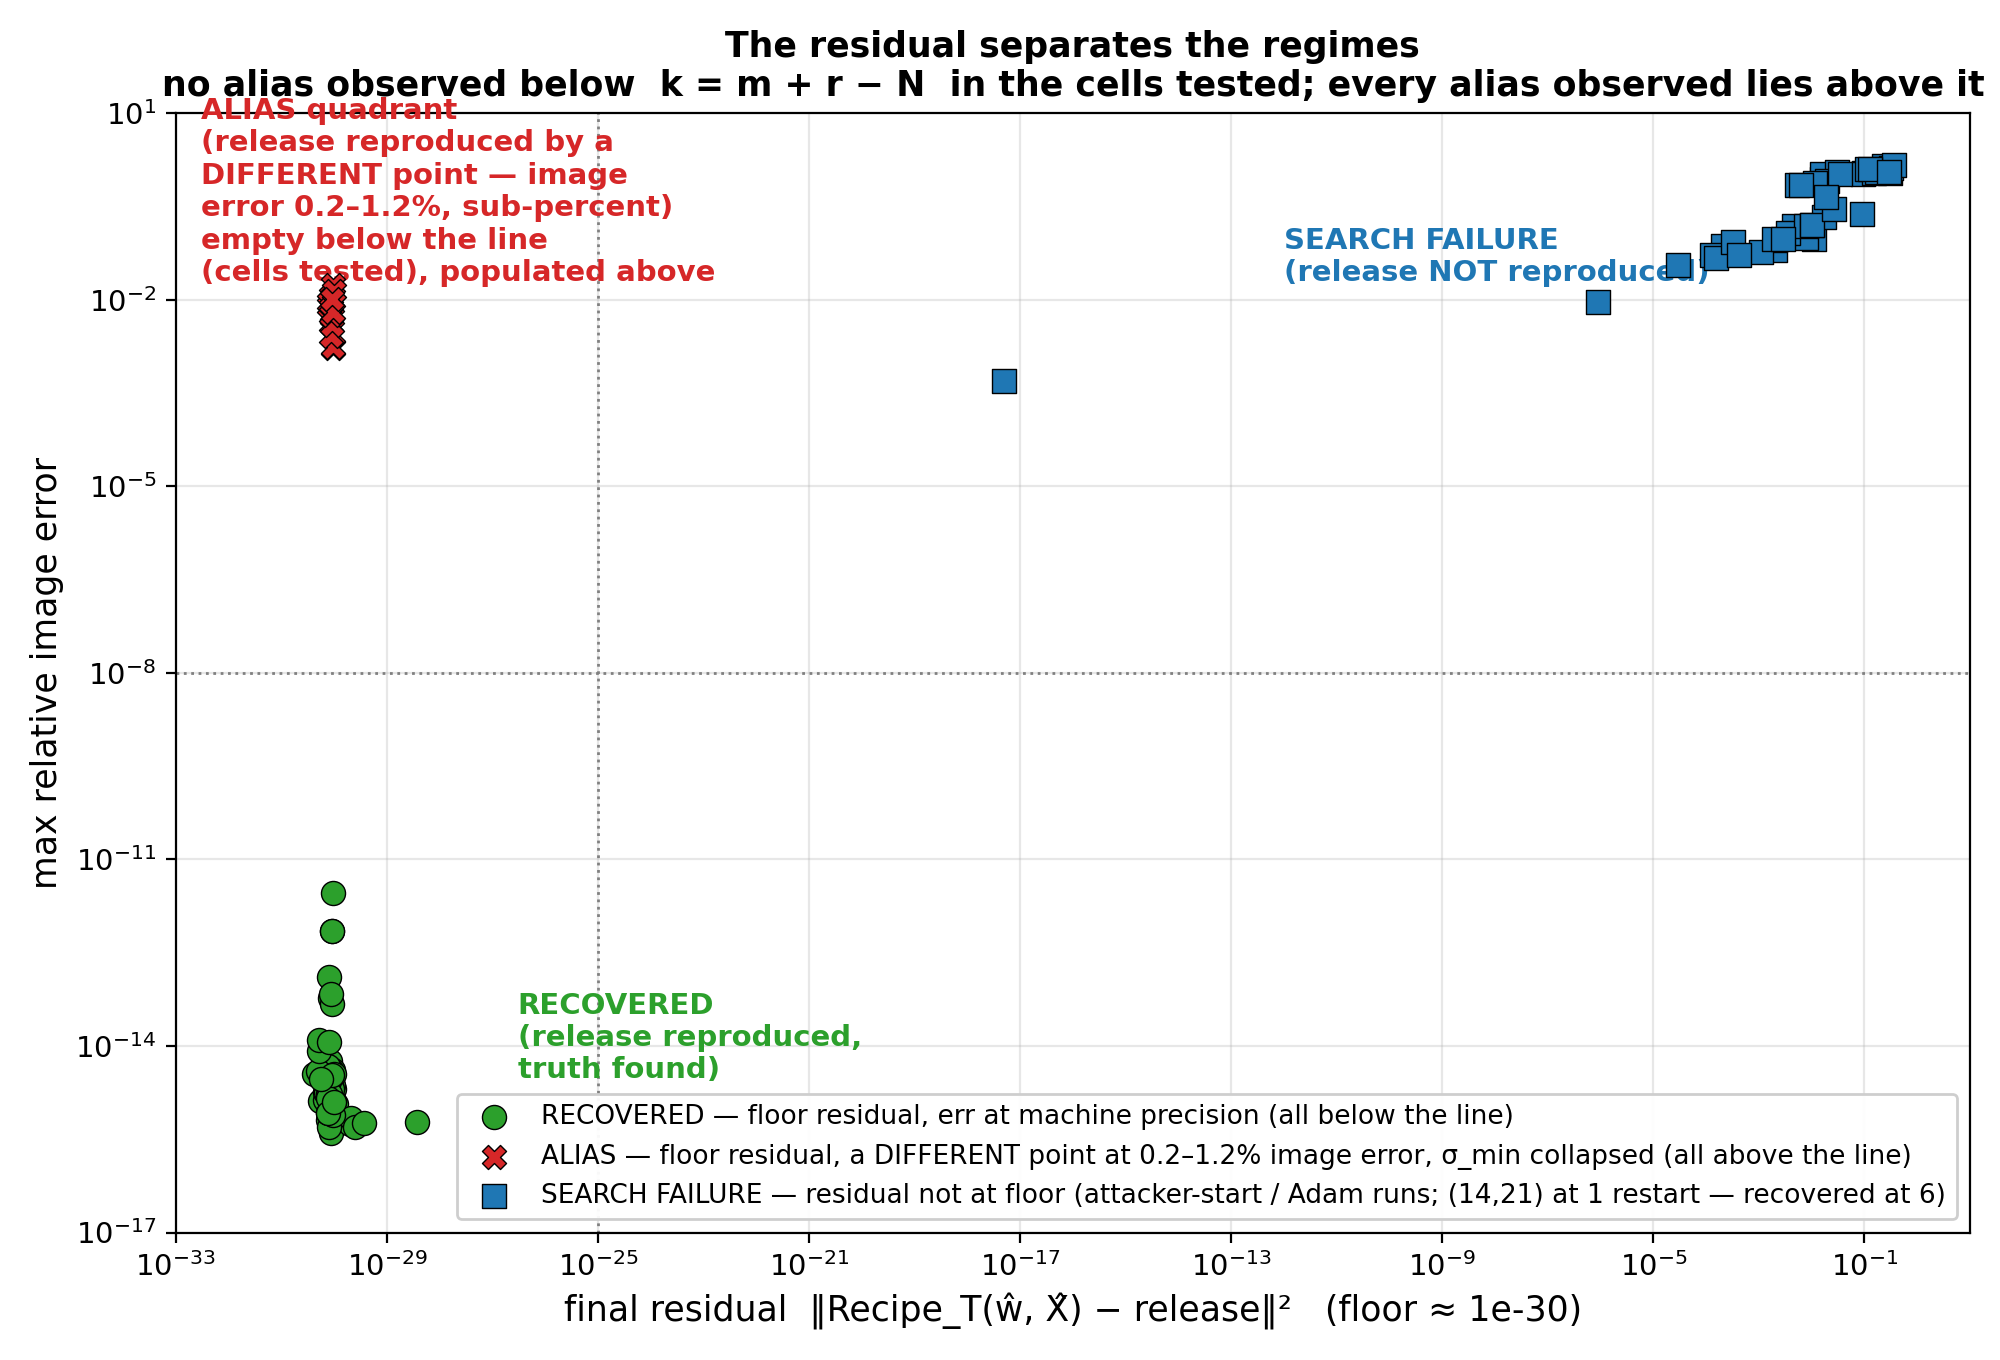
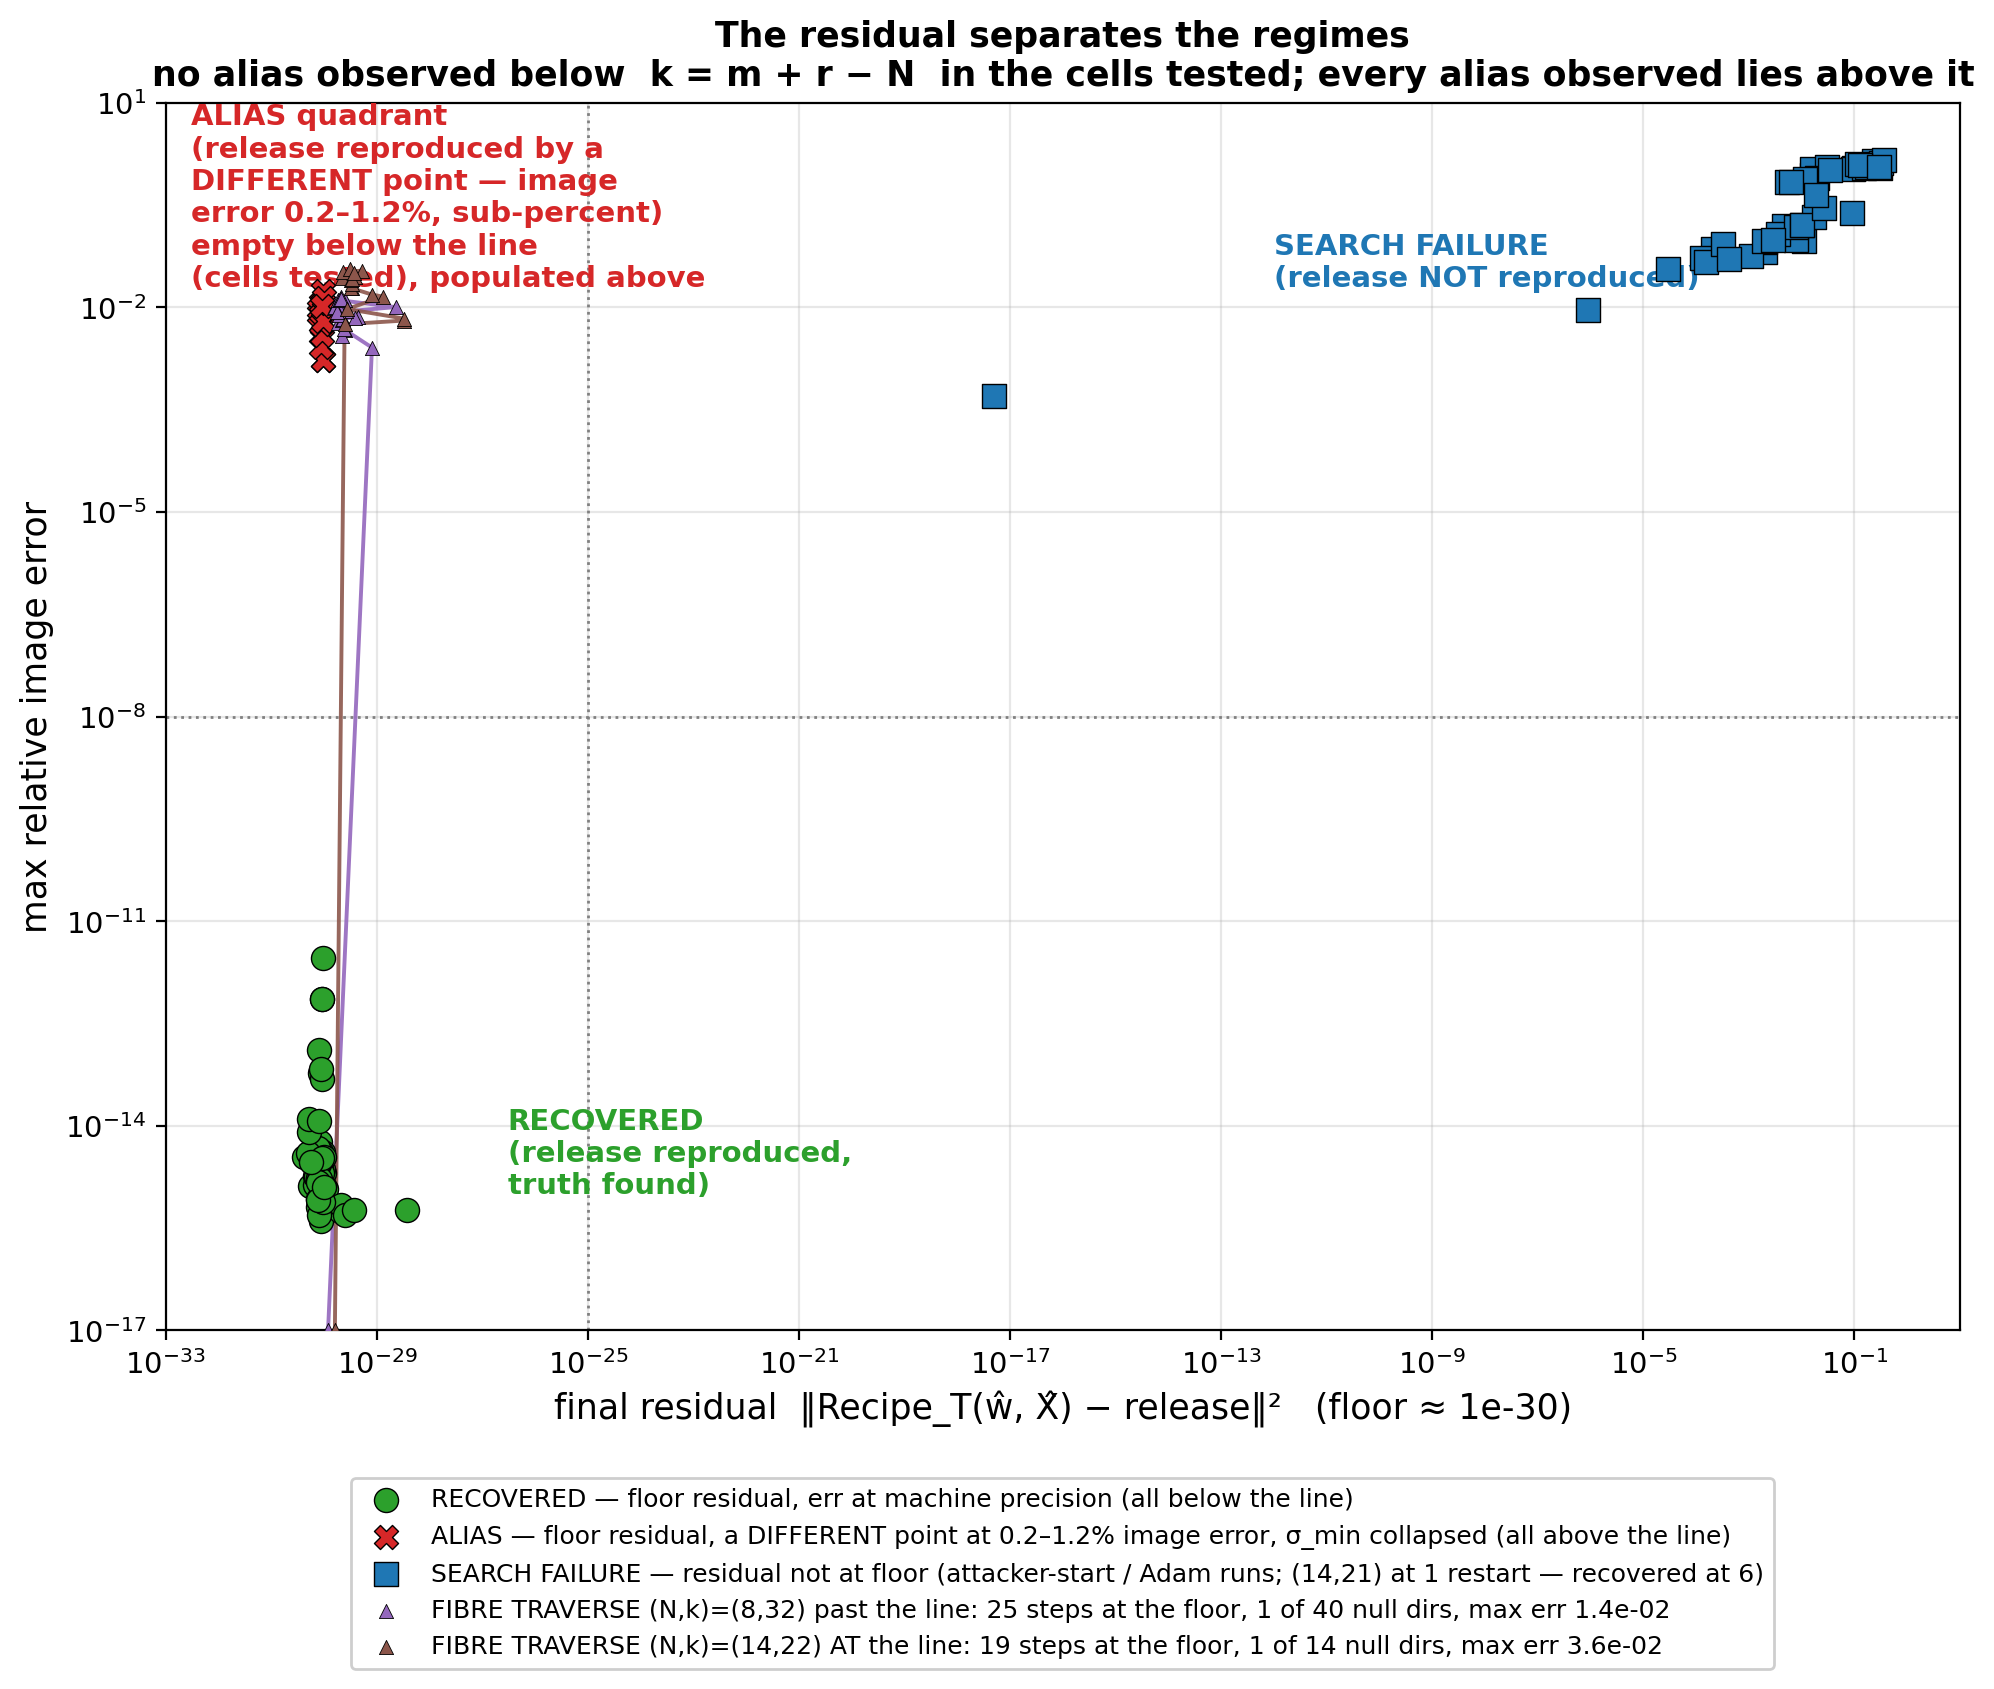
Rev 10 delta: fibre traverse (job 482338) drawn on the alias quadrant; plateau un-generalised; hedge on exact-vs-recognisable
The continuation along the sigma_min null direction stays at the residual floor at every step and moves the
image error up through the alias band: (8,32) past the line 25/25 steps, max 1.43e-2, pausing in the 1.0-1.4%
band; (14,22) at the line 16 steps so far, 3.5e-2 and still rising. The pause is a property of one path, not
of the fibre; both are one null direction of 40 / 14, hence lower bounds on the extent. Text now says: on the
paths measured the alternative solutions are still recognisable reconstructions; whether the fibre reaches
unrecognisable points is not established. The below-line control (8,26) is the paragraph's stated kill
condition and is marked pending in the rendered text. Figure 2 plots on_fibre rows as a line (and any
obstructed rows automatically, for the control). Numbers typed from the on-disk jsonl; finalised at job end.

diff --git a/notes/exact_channel_rev10.tex b/notes/exact_channel_rev10.tex
@@ -274,18 +274,20 @@ ever be measured directly:
   \textnormal{[VERIFIED†, extent pending]} (job 482338; $N=8$, $k=32$, $40$
   numerically null directions): stepping along the $\sigma_{\min}$ singular
   direction and retracting onto the fibre by a few LM steps keeps the residual
-  at $\sim\!10^{-30}$ at every one of $25$ continuation steps, while the image
-  error rises over the first $\sim\!20$ steps (locally non-monotone) and then
-  flattens in the $1.0$--$1.4\times10^{-2}$ band; maximum image error at the
-  floor $1.43\times10^{-2}$, past the study's own $10^{-2}$ recovery tolerance,
-  with the release reproduced exactly throughout. At the line itself
-  ($N=14$, $k=22$, $14$ null directions) the first five steps reach
-  $9.4\times10^{-3}$. \emph{The caveat belongs next to the number:} this walks
-  one direction out of forty — the continuation follows the least-constrained
-  singular direction, re-aiming as the fibre curves, but it is a single path
-  through a $40$-dimensional set — so $1.43\times10^{-2}$ bounds the fibre's
-  extent from \emph{below} and ``flattens'' describes this path, not the
-  fibre. (Quote the maximum image error at the floor, not a distance along the
+  at $\sim\!10^{-30}$ at every one of $25$ continuation steps; the image error
+  rises (locally non-monotone) to a maximum of $1.43\times10^{-2}$ at the
+  floor — past the study's own $10^{-2}$ recovery tolerance — and sits in the
+  $1.0$--$1.4\times10^{-2}$ band over the last five steps of that path. At the
+  line itself ($N=14$, $k=22$, $14$ null directions) sixteen steps reach
+  $3.5\times10^{-2}$ and are \emph{still rising} as this is written (job
+  482338 running; final extent to follow). In
+  neither cell is the extent bounded by the run. \emph{The caveat belongs next
+  to the numbers:} each walks one null direction out of forty (resp.\
+  fourteen) — the continuation follows the least-constrained singular
+  direction, re-aiming as the fibre curves, but it is a single path through
+  the set — so these bound the fibres' extent from \emph{below}; the pause of
+  the $k=32$ path in the $1.0$--$1.4\%$ band is a property of that path, not
+  of the fibre, and the at-line path shows none. (Quote the maximum image error at the floor, not a distance along the
   path: arc length lives in the joint $(w,X)$ space, where the $rN$ nuisance
   coordinates advance it without moving the image.) The below-the-line control
   ($N=8$, $k=26$), where the traversal must be \emph{obstructed}, is
@@ -412,13 +414,16 @@ tolerance, and a $0.3\%$ relative error is a visually identical image. So the
 capacity law is a boundary of \emph{exact identifiability} and, on this
 evidence, \emph{not a boundary of leakage}: past it the attack still returns
 every image to sub-percent accuracy. The fibre is, however, traversable: the
-continuation of \S\ref{sec:counting} moves the image along it to a $1.4\%$
-error and then flattens, with the residual at the floor throughout — along
-one of forty null directions, so this bounds the extent from below. The
-capacity boundary therefore marks where \emph{exact} recovery stops, not
-where recognisable recovery stops; whether some other direction through the
-fibre goes further is the open question that decides whether the line has
-any privacy meaning at all. The $49$-cell grid
+continuation of \S\ref{sec:counting} moves the image along it to $1.4\%$
+(past the line) and $3.5\%$ (at the line) error with the residual at the
+floor throughout, along one null direction of forty and of fourteen
+respectively, in neither case bounded by the run. On the paths measured the
+alternative solutions are still recognisable reconstructions; whether the
+fibre reaches unrecognisable points is not established, and one cell is still
+rising at the end of its run. The capacity boundary marks where \emph{exact}
+recovery stops; whether it marks anything about recognisable recovery is the
+open question that decides whether the line has any privacy meaning at all.
+The $49$-cell grid
 $N,k\in\{2,\dots,14\}$ (jobs 396214--21, 456630) lies entirely inside the
 capacity region and recovers in every cell, crossing the quotient line
 $k=r-N$ throughout (Figure~\ref{fig:plane}).
@@ -445,7 +450,11 @@ the attacker-start and Adam arms, and the single-restart run of the $(14,21)$
 cell, which recovers at six restarts (job 481079: residual $9.5\times10^{-31}$,
 error $2.8\times10^{-12}$). No alias was observed below the line in the cells
 tested — the below-line region is sampled at a handful of $k$ per $N$ — and
-the region between the clusters is empty: the residual is a regime detector.}\label{fig:quadrant}
+the region between the clusters is empty: the residual is a regime detector.
+The triangles are the fibre traverse of \S\ref{sec:counting} (job 482338):
+continuation at the floor from the truth up through the alias band — the
+release-consistent set drawn as a line, past the line and at it, one null
+direction each, extent bounded from below only.}\label{fig:quadrant}
 \end{figure}
 
 %----------------------------------------------------------------------------
@@ -583,10 +592,12 @@ open item — all four are mathematics.
   reproduced at the floor by a point that is not the truth. Say in the same
   breath what that point is: within $0.2$--$1.2\%$ of the true images where
   the solver lands, and a continuation along the release-consistent set
-  reaches $1.4\%$ and flattens — along one direction of forty, so a lower
-  bound on the extent. Non-isolation is established; every point on the
-  walked path is a sub-$1.5\%$ reconstruction; the line marks where exact
-  recovery stops, not where recognisable recovery stops. This is a boundary
+  reaches $1.4$--$3.5\%$ along a single null direction — a lower bound on the
+  extent, one cell still rising. Non-isolation is established; on the paths
+  measured the alternative solutions are still recognisable reconstructions;
+  whether the fibre reaches unrecognisable points is not established. The
+  line marks where exact recovery stops — that much is a theorem — and what
+  it means for recognisable recovery is open. This is a boundary
   of exact identifiability and, on this evidence, not a boundary of leakage —
   the more interesting statement, and the honest one.
   ``$r-N$'' bounds the quotient, not the leakage.

diff --git a/scripts/rev10_figs/fig_alias_quadrant.py b/scripts/rev10_figs/fig_alias_quadrant.py
@@ -23,12 +23,18 @@ def cls(r):
 pts=[]
 for r in grid+cap: pts.append((r.get("residual",9),r.get("final_err_max",9),side(r),cls(r)))
 for r in inits+adam: pts.append((r.get("residual",9),r.get("final_err_max",9),side(r),"search"))
+# fibre traverse (job 482338): continuation along the sigma_min direction with LM retraction; every on-fibre row is a
+# release-consistent point (floor residual) at a growing image error -> draws the fibre as a LINE into the alias band.
+trav = load("results/exact_inversion/step24_null_*.jsonl")
+trav_cells = {}
+for r in trav:
+    trav_cells.setdefault((r["N"], r["k"], r["line"]), []).append(r)
 # verification of the claim the figure makes
 assert all(sd=="above" for x,y,sd,c in pts if c=="alias"), "an alias below the line would falsify the figure"
 assert all(sd=="below" for x,y,sd,c in pts if c=="recovered"), "recovered above the line?"
 print("check: all aliases above the line, all recoveries below — OK")
 blue,orange,green,red="#1f77b4","#ff7f0e","#2ca02c","#d62728"
-fig, ax = plt.subplots(figsize=(10,6.8),dpi=200)
+fig, ax = plt.subplots(figsize=(10,8.6),dpi=200)
 for c,(col,mk,lab) in {
   "recovered":(green,"o","RECOVERED — floor residual, err at machine precision (all below the line)"),
   "alias":(red,"X","ALIAS — floor residual, a DIFFERENT point at 0.2–1.2% image error, σ_min collapsed (all above the line)"),
@@ -36,16 +42,29 @@ for c,(col,mk,lab) in {
 }.items():
     q=[(x,y) for x,y,sd,cc in pts if cc==c]
     if q: ax.scatter([max(x,1e-33) for x,_ in q],[max(y,1e-17) for _,y in q],s=75,color=col,marker=mk,edgecolor="k",lw=0.5,label=lab,zorder=4)
+purple,brown="#9467bd","#8c564b"
+for (N,k,line),rows in sorted(trav_cells.items()):
+    rows=sorted(rows,key=lambda r:r["step"]); onf=[r for r in rows if r.get("on_fibre")]; off=[r for r in rows if not r.get("on_fibre")]
+    where = "past the line" if k>line else ("AT the line" if k==line else "BELOW the line (control)")
+    col = purple if k>line else (brown if k==line else blue)
+    if onf:
+        xs=[max(r["residual"],1e-33) for r in onf]; ys=[max(r["img_err_max"],1e-17) for r in onf]
+        ax.plot(xs,ys,color=col,lw=1.4,alpha=0.9,zorder=3)
+        ax.scatter(xs,ys,s=26,color=col,marker="^",edgecolor="k",lw=0.3,zorder=5,
+                   label=f"FIBRE TRAVERSE (N,k)=({N},{k}) {where}: {len(onf)} steps at the floor, 1 of {onf[0]['n_null']} null dirs, max err {max(r['img_err_max'] for r in onf):.1e}")
+    if off:
+        ax.scatter([max(r["residual"],1e-33) for r in off],[max(r["img_err_max"],1e-17) for r in off],s=40,color=col,marker="v",edgecolor="k",lw=0.4,zorder=5,
+                   label=f"traverse OBSTRUCTED (N,k)=({N},{k}) {where}: {len(off)} steps off the fibre")
 ax.set_xscale("log"); ax.set_yscale("log")
 ax.set_xlim(1e-33,10); ax.set_ylim(1e-17,10)
 ax.axvline(1e-25,color="gray",lw=1,ls=":"); ax.axhline(1e-8,color="gray",lw=1,ls=":")
-ax.text(3e-27,3e-15,"RECOVERED\n(release reproduced,\ntruth found)",fontsize=10.5,color=green,fontweight="bold")
+ax.text(3e-27,1e-15,"RECOVERED\n(release reproduced,\ntruth found)",fontsize=10.5,color=green,fontweight="bold")
 ax.text(3e-33,2e-2,"ALIAS quadrant\n(release reproduced by a\nDIFFERENT point — image\nerror 0.2–1.2%, sub-percent)\nempty below the line\n(cells tested), populated above",fontsize=10.5,color=red,fontweight="bold")
 ax.text(1e-12,2e-2,"SEARCH FAILURE\n(release NOT reproduced)",fontsize=10.5,color=blue,fontweight="bold")
 ax.set_xlabel("final residual  ‖Recipe_T(ŵ, X̂) − release‖²   (floor ≈ 1e-30)",fontsize=12.5)
 ax.set_ylabel("max relative image error",fontsize=12.5)
 ax.set_title("The residual separates the regimes\nno alias observed below  k = m + r − N  in the cells tested; every alias observed lies above it",fontsize=12.5,fontweight="bold")
 ax.tick_params(labelsize=10.5); ax.grid(alpha=0.3,which="major")
-ax.legend(fontsize=9.5,loc="lower right",framealpha=0.95)
+ax.legend(fontsize=9,loc="upper center",bbox_to_anchor=(0.5,-0.11),ncol=1,framealpha=0.95)
 out=os.path.join("figures/rev10","fig_alias_quadrant.png")
-fig.tight_layout(); fig.savefig(out); print("saved",out,"| pts",len(pts),"| search rows",len(inits)+len(adam))
+fig.tight_layout(); fig.savefig(out,bbox_inches="tight"); print("saved",out,"| pts",len(pts),"| search rows",len(inits)+len(adam))

diff --git a/LESSONS_LEARNED.md b/LESSONS_LEARNED.md
@@ -31,10 +31,11 @@ block sizes and ranks only.
 lands at the residual floor at a point that is not the truth — but that point is within 0.2–1.2% relative
 image error, and in 8 of 11 past-line cells inside the study's own 1e-2 recovery tolerance. A 0.3% error is
 a visually identical image. So `k < m+r−N` is a boundary of **exact identifiability, not (on this evidence)
-of leakage**. A fibre continuation (job 482338) walks the release-consistent set to a maximum 1.43% error with the
-residual at the floor at all 25 steps, rising then flattening in the 1.0–1.4% band — along ONE of 40 null
-directions, so a lower bound on the extent, not a diameter: non-isolation is established, and the line marks
-where *exact* recovery stops, not where recognisable recovery stops (below-line control pending). The lesson: the alias quadrant's y-axis was honest all along;
+of leakage**. A fibre continuation (job 482338) walks the release-consistent set to 1.43% (past the line, 25 steps, pausing in
+the 1.0–1.4% band) and 3.5% still rising (at the line, 16 steps, job running), residual at the floor at every step — along
+ONE null direction each, so lower bounds on the extent, not diameters: non-isolation is established, the
+alternatives are still recognisable on the paths measured, and whether the fibre reaches unrecognisable
+points is NOT established (below-line control pending). Do not generalise a plateau seen on one path. The lesson: the alias quadrant's y-axis was honest all along;
 the *labels* were not. Quote the error magnitude wherever the word "alias" appears. And do not read image
 error against arc length in joint `(w,X)` space — the `rN` nuisance coordinates advance the arc without
 moving the image; quote the maximum image error attained at the floor.

diff --git a/STATUS.md b/STATUS.md
@@ -20,9 +20,10 @@ What the section establishes, in order — every label as in the .tex:
 - **Measured sharp on the outcome:** N=8 recovered@27 / alias@28; N=14 recovered@21 (6 restarts, job 481079,
   residual †9.5e-31, err †2.8e-12) / alias@22. The T-dependence conjecture is refuted (capacity T-independent).
 - **Corrected framing — exact identifiability, NOT leakage:** past-line solutions sit at †0.2–1.2% image error
-  (8/11 cells inside the study's own 1e-2 tolerance); a fibre continuation (job 482338) reaches a max †1.43% at the
-  floor over 25/25 steps and flattens in the 1.0–1.4% band — one of 40 null directions, hence a LOWER bound on the
-  extent. Non-isolation established; the line marks where exact recovery stops, not recognisable recovery.
+  (8/11 cells inside the study's own 1e-2 tolerance); a fibre continuation (job 482338) reaches †1.43% (past the line,
+  25/25 steps at the floor) and †3.5% still rising (at the line, 16 steps, job running) — one null direction each, hence LOWER
+  bounds on the extent. Non-isolation established; alternatives still recognisable on the paths measured; whether
+  the fibre reaches unrecognisable points is not established.
 - **Adam:** identifiable, nuisance `rn`, `κ ≈ 8e5` vs `2e3`; breaks the simplex constraint (†`2.6–2.7` vs `1e-15`)
   so its B-block saturates the *plain* cap 224. **PREDICTION (untested as a boundary):** Adam's line is one unit
   higher than SGD's at the same `(m,r,N)`.
